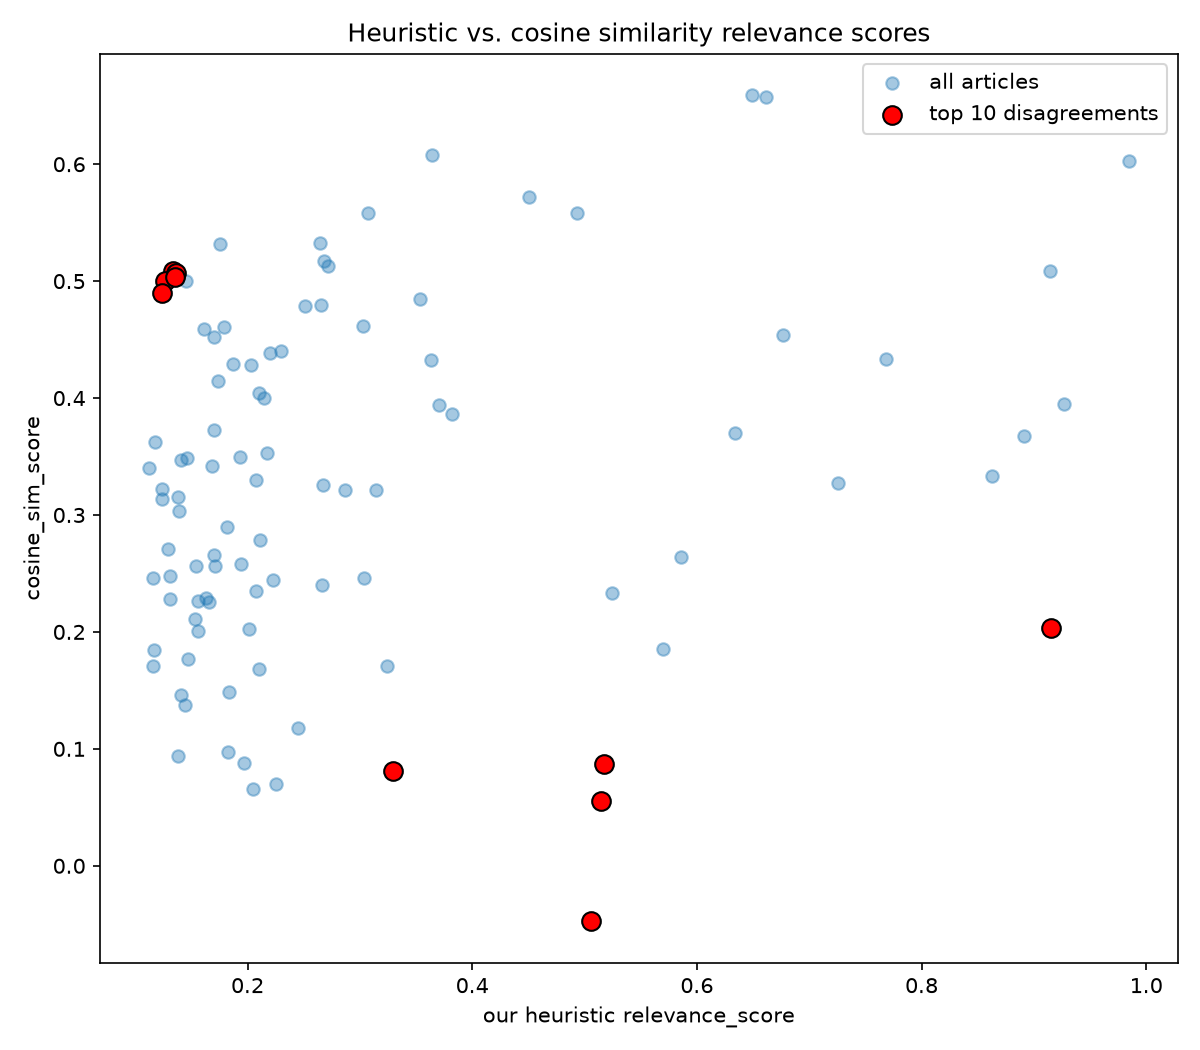
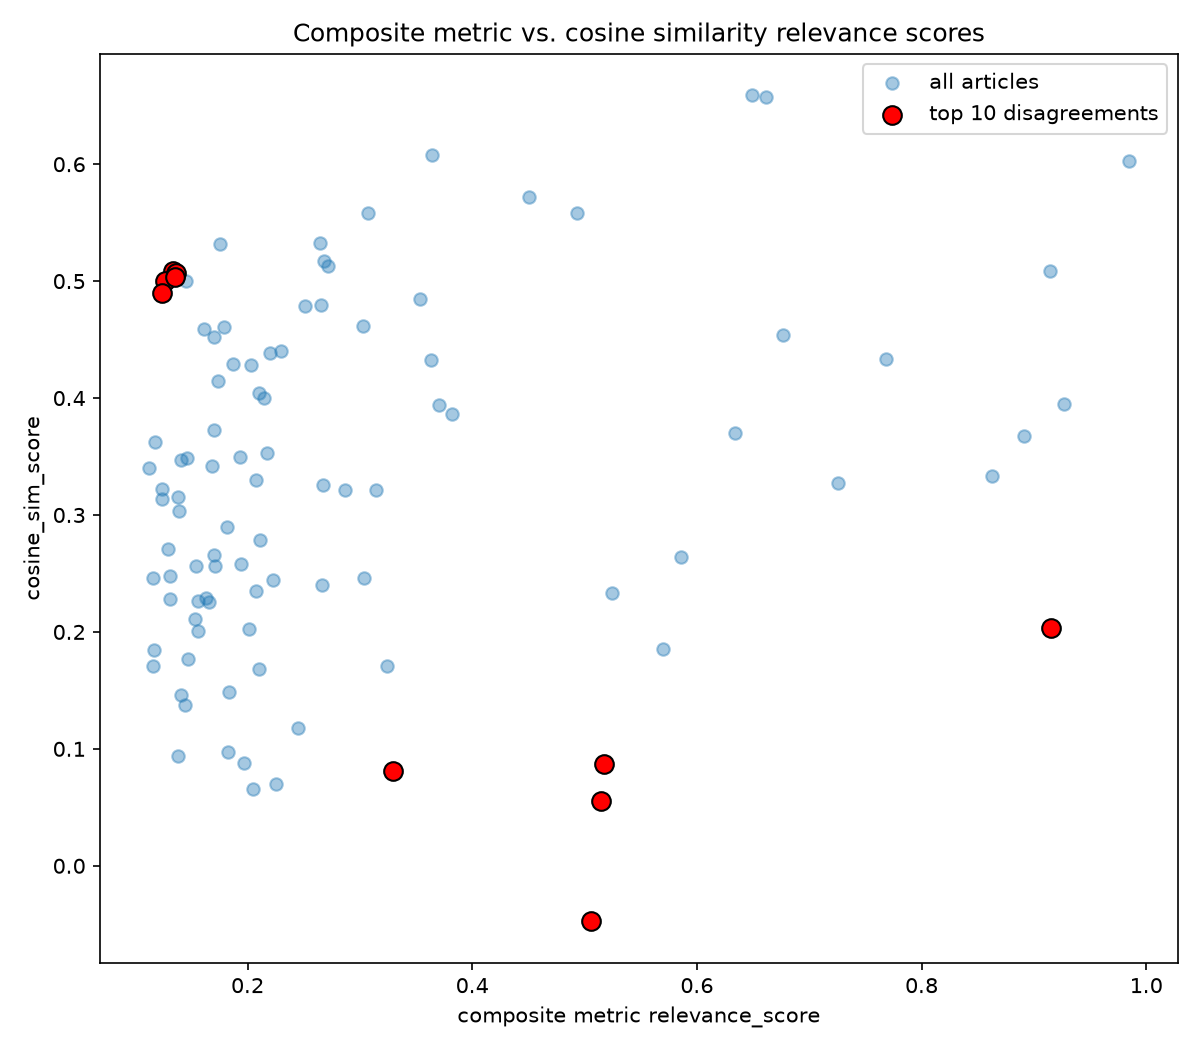
diagnostic plots

Changed region(s): [[0.2467, 0.0, 0.8325, 0.061], [0.37, 0.9448, 0.6783, 0.9752]]

diff --git a/ahaan-code/src/signal_sentiment_correlation.py b/ahaan-code/src/signal_sentiment_correlation.py
@@ -1,0 +1,65 @@
+# Check whether any of the four relevance signals (symbol crowding, title
+# mention, content density, recency) are secretly correlated with sentiment
+# itself. If one of them is, that signal isn't just measuring "relevance" -
+# it's nudging the weighted sentiment average in a direction on its own,
+# which would bias the final relevance-weighted sentiment number.
+
+import pandas as pd
+import matplotlib.pyplot as plt
+from scipy.stats import pearsonr, spearmanr
+
+finbert_scored_data_path = "ahaan-code/results/AAPL_US_data_finbert.csv"
+articles_df = pd.read_csv(finbert_scored_data_path)
+
+signal_columns = {
+    "symbol_crowding_score": "Symbol crowding (1 / other companies tagged)",
+    "title_mention_score": "Title mention (binary)",
+    "content_density_score": "Content density (mentions / word count, normalized)",
+    "recency_score": "Recency (half-life decay)",
+}
+
+print("Correlation of each relevance signal with FinBERT sentiment_score:\n")
+
+correlation_results = []
+for column_name, description in signal_columns.items():
+    pearson_r, pearson_p = pearsonr(articles_df[column_name], articles_df["sentiment_score"])
+    spearman_rho, spearman_p = spearmanr(articles_df[column_name], articles_df["sentiment_score"])
+
+    correlation_results.append({
+        "signal": column_name,
+        "description": description,
+        "pearson_r": pearson_r,
+        "pearson_p": pearson_p,
+        "spearman_rho": spearman_rho,
+        "spearman_p": spearman_p,
+    })
+
+    print(f"{description}")
+    print(f"    Pearson  r={pearson_r:+.3f}  (p={pearson_p:.4f})")
+    print(f"    Spearman rho={spearman_rho:+.3f}  (p={spearman_p:.4f})\n")
+
+results_df = pd.DataFrame(correlation_results)
+
+# also check the combined relevance_score itself, since that's what actually
+# gets used as the weight in the final weighted-sentiment calculation
+combined_pearson_r, combined_pearson_p = pearsonr(articles_df["relevance_score"], articles_df["sentiment_score"])
+print(f"Combined relevance_score vs sentiment_score: r={combined_pearson_r:+.3f} (p={combined_pearson_p:.4f})")
+
+# --- bar chart of Pearson r for each signal, so it's easy to spot which
+# signal (if any) is most entangled with sentiment ---
+
+fig, ax = plt.subplots(figsize=(9, 5))
+bar_colors = ["red" if abs(r) > 0.2 else "steelblue" for r in results_df["pearson_r"]]
+ax.barh(results_df["description"], results_df["pearson_r"], color=bar_colors, edgecolor="black")
+ax.axvline(0, color="black", linewidth=0.8)
+ax.set_xlabel("Pearson correlation with sentiment_score")
+ax.set_title("Relevance signals vs. sentiment (red = |r| > 0.2)", pad=12)
+plt.tight_layout()
+
+plot_path = "ahaan-code/results/signal_sentiment_correlation.png"
+plt.savefig(plot_path, dpi=150)
+print(f"\nSaved plot to {plot_path}")
+
+output_path = "ahaan-code/results/signal_sentiment_correlation.csv"
+results_df.to_csv(output_path, index=False)
+print(f"Saved correlation table to {output_path}")

diff --git a/ahaan-code/src/relevance_comparison.py b/ahaan-code/src/relevance_comparison.py
@@ -1,5 +1,5 @@
-# Compare our hand-built relevance heuristic (see finbert-reviewer.py) against
-# Arya's cosine-similarity approach, which embeds each article with
+# Compare the composite metric (see finbert-reviewer.py) against
+# cosine-similarity approach, which embeds each article with
 # all-MiniLM-L6-v2 and scores it against a query describing "relevant" news.
 # Both scores run on the same AAPL article set to see where the methods agree/disagree.
 
@@ -33,18 +33,18 @@ article_embeddings = sentence_embedder.encode(
 cosine_similarity_scores = util.cos_sim(cosine_query_embedding, article_embeddings)[0].tolist()
 articles_df["cosine_sim_score"] = cosine_similarity_scores
 
-heuristic_relevance_scores = articles_df["relevance_score"]
+composite_metric_scores = articles_df["relevance_score"]
 cosine_relevance_scores = articles_df["cosine_sim_score"]
 
-pearson_correlation, pearson_p_value = pearsonr(heuristic_relevance_scores, cosine_relevance_scores)
-spearman_correlation, spearman_p_value = spearmanr(heuristic_relevance_scores, cosine_relevance_scores)
+pearson_correlation, pearson_p_value = pearsonr(composite_metric_scores, cosine_relevance_scores)
+spearman_correlation, spearman_p_value = spearmanr(composite_metric_scores, cosine_relevance_scores)
 
 print(f"\nPearson correlation (linear agreement):  r={pearson_correlation:.3f}, p={pearson_p_value:.4f}")
 print(f"Spearman correlation (rank agreement):    rho={spearman_correlation:.3f}, p={spearman_p_value:.4f}")
 
-heuristic_top_n_indices = set(articles_df.nlargest(TOP_N, "relevance_score").index)
+composite_metric_top_n_indices = set(articles_df.nlargest(TOP_N, "relevance_score").index)
 cosine_top_n_indices = set(articles_df.nlargest(TOP_N, "cosine_sim_score").index)
-overlapping_top_n_indices = heuristic_top_n_indices & cosine_top_n_indices
+overlapping_top_n_indices = composite_metric_top_n_indices & cosine_top_n_indices
 
 print(f"\nTop-{TOP_N} overlap: {len(overlapping_top_n_indices)}/{TOP_N} articles picked by both methods")
 
@@ -52,10 +52,10 @@ articles_df["score_gap"] = (
     articles_df["relevance_score"].rank(pct=True) - articles_df["cosine_sim_score"].rank(pct=True)
 )
 
-print("\nArticles our heuristic rates far MORE relevant than cosine similarity does:")
+print("\nArticles the composite metric rates far MORE relevant than cosine similarity does:")
 print(articles_df.nlargest(5, "score_gap")[["title", "relevance_score", "cosine_sim_score"]].to_string(index=False))
 
-print("\nArticles cosine similarity rates far MORE relevant than our heuristic does:")
+print("\nArticles cosine similarity rates far MORE relevant than the composite metric does:")
 print(articles_df.nsmallest(5, "score_gap")[["title", "relevance_score", "cosine_sim_score"]].to_string(index=False))
 
 # top 10 articles where the two methods disagree the most, regardless of direction
@@ -71,7 +71,7 @@ print(top_10_disagreements.to_string(index=False))
 fig, axes = plt.subplots(1, 2, figsize=(12, 5))
 
 axes[0].hist(articles_df["relevance_score"], bins=20, color="steelblue", edgecolor="black")
-axes[0].set_title("Our heuristic relevance_score")
+axes[0].set_title("Composite metric relevance_score")
 axes[0].set_xlabel("relevance_score")
 axes[0].set_ylabel("number of articles")
 
@@ -95,9 +95,9 @@ ax.scatter(
     s=80,
     label="top 10 disagreements",
 )
-ax.set_xlabel("our heuristic relevance_score")
+ax.set_xlabel("composite metric relevance_score")
 ax.set_ylabel("cosine_sim_score")
-ax.set_title("Heuristic vs. cosine similarity relevance scores")
+ax.set_title("Composite metric vs. cosine similarity relevance scores")
 ax.legend()
 plt.tight_layout()
 scatter_plot_path = "ahaan-code/results/relevance_comparison_scatter.png"

diff --git a/ahaan-code/src/finbert-reviewer.py b/ahaan-code/src/finbert-reviewer.py
@@ -138,6 +138,10 @@ articles_df["finbert_positive"] = positive_scores
 articles_df["finbert_negative"] = negative_scores
 articles_df["finbert_neutral"] = neutral_scores
 articles_df["sentiment_score"] = sentiment_scores
+articles_df["symbol_crowding_score"] = symbol_crowding_scores
+articles_df["title_mention_score"] = title_mention_scores
+articles_df["content_density_score"] = normalized_content_density_scores
+articles_df["recency_score"] = recency_scores
 articles_df["relevance_score"] = relevance_scores
 
 total_weighted_sentiment = 0.0